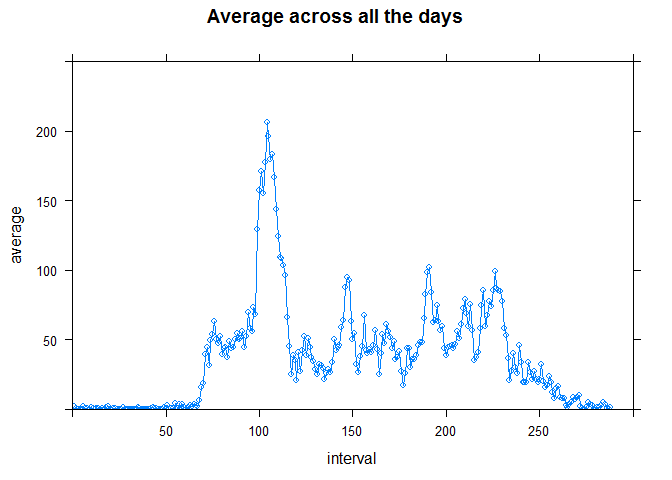
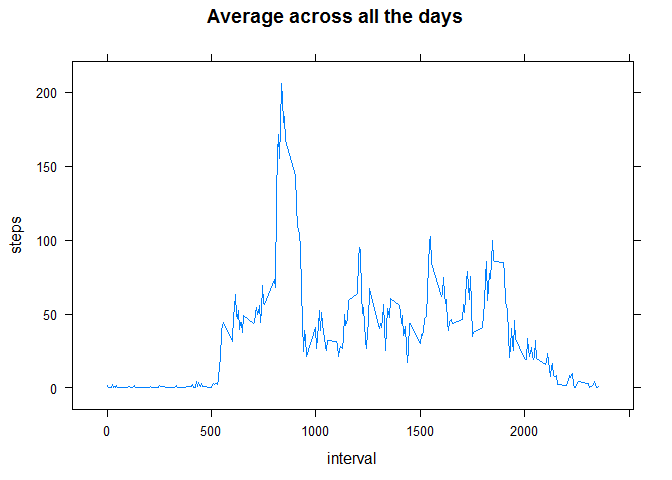
Completed Peer Assessment 1

diff --git a/PA1.html b/PA1.html
@@ -60,6 +60,7 @@ if (window.hljs && document.readyState && document.readyState === "complete") {
 <p>This is the first peer assessment of Reproducible Research of JH on coursera. This assignment makes use of data from a personal activity monitoring device. This device collects data at 5 minute intervals through out the day. The data consists of two months of data from an anonymous individual collected during the months of October and November, 2012 and include the number of steps taken in 5 minute intervals each day.</p>
 <div id="loading-and-preprocessing-the-data" class="section level3">
 <h3>Loading and preprocessing the data</h3>
+<p>Please unzip the zip file and make sure that the “activity.csv” is in your working directory.</p>
 <ol style="list-style-type: decimal">
 <li>Load the data.</li>
 </ol>
@@ -74,16 +75,16 @@ if (window.hljs && document.readyState && document.readyState === "complete") {
 <ol style="list-style-type: decimal">
 <li>Make a histogram of the total number of steps taken each day.</li>
 </ol>
-<pre class="r"><code>dailysteps &lt;- data.frame(date = format(as.Date(names(tapply(no.na$steps, no.na$date, sum))), &quot;%m%d&quot;), steps = tapply(no.na$steps, no.na$date, sum))
+<pre class="r"><code>dailysteps &lt;- aggregate(steps ~ date, no.na, sum)
 library(lattice)
-barchart(steps ~ date, data = dailysteps, xlab = &quot;day&quot;, main = &quot;Daily Steps from October 1 to November 30, 2012&quot;, horizontal = FALSE, scales = list(x = list(cex = 0.7)), xlim = c(0, 62), ylim = c(0, 25000))</code></pre>
[1 lines of base64/hex data omitted]
+barchart(steps ~ date, data = dailysteps, xlab = &quot;day&quot;, main = &quot;Daily Steps from October 1 to November 30, 2012&quot;, xlim = c(0, 54), ylim = c(0, 25000))</code></pre>
[1 lines of base64/hex data omitted]
 <ol start="2" style="list-style-type: decimal">
 <li>Calculate and report the mean and median total number of steps taken per day</li>
 </ol>
 <p>Here is the code to calculate the mean and median:</p>
-<pre class="r"><code>meansteps &lt;- mean(dailysteps$steps, na.rm = TRUE)
-mediansteps &lt;- median(dailysteps$steps, na.rm = TRUE)</code></pre>
+<pre class="r"><code>meansteps &lt;- mean(dailysteps$steps)
+mediansteps &lt;- median(dailysteps$steps)</code></pre>
 <p>The result is: 1.0766 × 10<sup>4</sup> and 10765</p>
 </div>
 <div id="what-is-the-average-daily-activity-pattern" class="section level3">
@@ -91,16 +92,15 @@ mediansteps &lt;- median(dailysteps$steps, na.rm = TRUE)</code></pre>
 <ol style="list-style-type: decimal">
 <li>Make a time series plot (i.e. type = “l”) of the 5-minute interval (x-axis) and the average number of steps taken, averaged across all days (y-axis)</li>
 </ol>
-<pre class="r"><code>averagesteps &lt;- data.frame(interval = names(tapply(no.na$steps, no.na$interval, mean)), average = tapply(no.na$steps, no.na$interval, mean))
-levels(averagesteps$interval) &lt;- order(unique(no.na$interval))
-averagesteps$interval &lt;- sort(averagesteps$interval)
-xyplot(average ~ interval, data = averagesteps, type = &quot;b&quot;, xlim = c(0, 300), ylim = c(0, 250), main = &quot;Average across all the days&quot;)</code></pre>
[1 lines of base64/hex data omitted]
+<pre class="r"><code>averagesteps &lt;- aggregate(steps ~ interval, no.na, mean)
+xyplot(steps ~ interval, data = averagesteps, type = &quot;l&quot;, main = &quot;Average across all the days&quot;)</code></pre>
[1 lines of base64/hex data omitted]
 <ol start="2" style="list-style-type: decimal">
 <li>Which 5-minute interval, on average across all the days in the dataset, contains the maximum number of steps?</li>
 </ol>
-<pre class="r"><code>maxaverage &lt;- which.max(averagesteps$average)</code></pre>
-<p>The maximum number of steps occur at 104e 5-minute interval.</p>
+<pre class="r"><code>maxaverage &lt;- which.max(averagesteps$steps)
+max &lt;- averagesteps[maxaverage, 1]</code></pre>
+<p>The maximum number of steps occur at 104e 5-minute interval, at 835.</p>
 </div>
 <div id="imputing-missing-values" class="section level3">
 <h3>Imputing missing values</h3>
@@ -111,7 +111,7 @@ xyplot(average ~ interval, data = averagesteps, type = &quot;b&quot;, xlim = c(0
 <pre class="r"><code>narows &lt;- nrow(data) - nrow(no.na)</code></pre>
 <p>The total number of missing values in the dataset: 2304 rows.</p>
 <ol start="2" style="list-style-type: decimal">
-<li>Fill the means of 5-minute interval accordingly in all of the missing values in the dataset.</li>
+<li>Fill the means of 5-minute interval accordingly in all of the missing values in the dataset and create a new one.</li>
 </ol>
 <pre class="r"><code>a &lt;- aggregate(steps ~ interval, data, mean, na.action = na.omit)
 m &lt;- merge(data, a, by.x = &quot;interval&quot;, by.y = &quot;interval&quot;)
@@ -131,16 +131,18 @@ barchart(steps ~ date, data = newsteps, xlab = &quot;day&quot;, main = &quot;Dai
 <pre class="r"><code>newmean &lt;- mean(newsteps$steps)
 newmedian &lt;- median(newsteps$steps)</code></pre>
 <p>The result is: 1.0766 × 10<sup>4</sup> and 1.0766 × 10<sup>4</sup></p>
-<p>The mean values are same, but the median values have 1 step diffrence between the new and old dataset. After imputing missing data, it is easier to judge everyday steps by the plot.</p>
+<p>The mean values are same, but the median values have 1 step difference between the new and old dataset. After imputing missing data, it is easier to estimate everyday steps pattern by the plot. We can see that it’s around 10,000 steps per day.</p>
 </div>
 <div id="are-there-differences-in-activity-patterns-between-weekdays-and-weekends" class="section level3">
 <h3>Are there differences in activity patterns between weekdays and weekends?</h3>
 <ol style="list-style-type: decimal">
 <li>With the new dataset, create a new factor variable with two levels indicating whether a given date is a weekday or weekend day.</li>
 </ol>
-<pre class="r"><code>Sys.setlocale(&quot;LC_TIME&quot;, &quot;English&quot;)</code></pre>
+<pre class="r"><code>### Set time language as English in case that someone uses other version computer system than English.
+Sys.setlocale(&quot;LC_TIME&quot;, &quot;English&quot;)</code></pre>
 <pre><code>## [1] &quot;English_United States.1252&quot;</code></pre>
-<pre class="r"><code>newdata$weekdays &lt;- weekdays(as.Date(newdata$date))
+<pre class="r"><code>### Add a new column with two factors - weekday and weekend.
+newdata$weekdays &lt;- weekdays(as.Date(newdata$date))
 weekday &lt;- c(&quot;Monday&quot;, &quot;Tuesday&quot;, &quot;Wednesday&quot;, &quot;Thursday&quot;, &quot;Friday&quot;)
 weekend &lt;- c(&quot;Saturday&quot;, &quot;Sunday&quot;)
 newdata[which(newdata$weekdays %in% weekday), 4] &lt;- &quot;weekday&quot;
@@ -148,13 +150,16 @@ newdata[which(newdata$weekdays %in% weekend), 4] &lt;- &quot;weekend&quot;</code
 <ol start="2" style="list-style-type: decimal">
 <li>Make a panel plot containing a time series plot (i.e. type = “l”) of the 5-minute interval (x-axis) and the average number of steps taken, averaged across all weekday days or weekend days (y-axis).</li>
 </ol>
-<pre class="r"><code>weekdayaverage &lt;- aggregate(steps ~ interval, newdata[which(newdata$weekdays == &quot;weekday&quot;), ], mean)
+<pre class="r"><code>### Calculate seperately average number of steps taken across all weekday days or weekend days.
+weekdayaverage &lt;- aggregate(steps ~ interval, newdata[which(newdata$weekdays == &quot;weekday&quot;), ], mean)
 weekendaverage &lt;- aggregate(steps ~ interval, newdata[which(newdata$weekdays == &quot;weekend&quot;), ], mean)
 wda &lt;- cbind(weekdayaverage, weekdays = rep(&quot;weekday&quot;, length(weekdayaverage$steps)))
 wea &lt;- cbind(weekendaverage, weekdays = rep(&quot;weekend&quot;, length(weekendaverage$steps)))
+### Combine the two average datasets
 weekaverage &lt;- rbind(wda,wea)
 xyplot(steps ~ interval | weekdays, data = weekaverage, type = &quot;l&quot;, ylab = &quot;Number of steps&quot;, main = &quot;Activity patterns of weekdays and weekends&quot;, layout = c(1, 2))</code></pre>
[1 lines of base64/hex data omitted]
+<p>From the plot, we can oberve that the number of steps is distributed more regularly on weekends than on weekdays.</p>
 </div>
 </div>
 </div>

diff --git a/PA1.md b/PA1.md
@@ -7,6 +7,7 @@ This is the first peer assessment of Reproducible Research of JH on coursera. Th
 
 
 ### Loading and preprocessing the data
+Please unzip the zip file and make sure that the "activity.csv" is in your working directory.
 
 1. Load the data.
 
@@ -26,9 +27,9 @@ no.na <- na.omit(data)
 1. Make a histogram of the total number of steps taken each day.
 
 ```r
-dailysteps <- data.frame(date = format(as.Date(names(tapply(no.na$steps, no.na$date, sum))), "%m%d"), steps = tapply(no.na$steps, no.na$date, sum))
+dailysteps <- aggregate(steps ~ date, no.na, sum)
 library(lattice)
-barchart(steps ~ date, data = dailysteps, xlab = "day", main = "Daily Steps from October 1 to November 30, 2012", horizontal = FALSE, scales = list(x = list(cex = 0.7)), xlim = c(0, 62), ylim = c(0, 25000))
+barchart(steps ~ date, data = dailysteps, xlab = "day", main = "Daily Steps from October 1 to November 30, 2012", xlim = c(0, 54), ylim = c(0, 25000))
 ```
 
 ![plot of chunk hist](./PA1_files/figure-html/hist.png) 
@@ -38,8 +39,8 @@ barchart(steps ~ date, data = dailysteps, xlab = "day", main = "Daily Steps from
 Here is the code to calculate the mean and median:
 
 ```r
-meansteps <- mean(dailysteps$steps, na.rm = TRUE)
-mediansteps <- median(dailysteps$steps, na.rm = TRUE)
+meansteps <- mean(dailysteps$steps)
+mediansteps <- median(dailysteps$steps)
 ```
 The result is: 1.0766 &times; 10<sup>4</sup> and 10765
 
@@ -49,10 +50,8 @@ The result is: 1.0766 &times; 10<sup>4</sup> and 10765
 1. Make a time series plot (i.e. type = "l") of the 5-minute interval (x-axis) and the average number of steps taken, averaged across all days (y-axis)
 
 ```r
-averagesteps <- data.frame(interval = names(tapply(no.na$steps, no.na$interval, mean)), average = tapply(no.na$steps, no.na$interval, mean))
-levels(averagesteps$interval) <- order(unique(no.na$interval))
-averagesteps$interval <- sort(averagesteps$interval)
-xyplot(average ~ interval, data = averagesteps, type = "b", xlim = c(0, 300), ylim = c(0, 250), main = "Average across all the days")
+averagesteps <- aggregate(steps ~ interval, no.na, mean)
+xyplot(steps ~ interval, data = averagesteps, type = "l", main = "Average across all the days")
 ```
 
 ![plot of chunk average](./PA1_files/figure-html/average.png) 
@@ -60,10 +59,11 @@ xyplot(average ~ interval, data = averagesteps, type = "b", xlim = c(0, 300), yl
 2. Which 5-minute interval, on average across all the days in the dataset, contains the maximum number of steps?
 
 ```r
-maxaverage <- which.max(averagesteps$average)
+maxaverage <- which.max(averagesteps$steps)
+max <- averagesteps[maxaverage, 1]
 ```
 
-The maximum number of steps occur at 104e 5-minute interval.
+The maximum number of steps occur at 104e 5-minute interval, at 835.
 
 
 ### Imputing missing values
@@ -78,7 +78,7 @@ narows <- nrow(data) - nrow(no.na)
 The total number of missing values in the dataset: 2304 rows.
 
 
-2. Fill the means of 5-minute interval accordingly in all of the missing values in the dataset.
+2. Fill the means of 5-minute interval accordingly in all of the missing values in the dataset and create a new one.
 
 ```r
 a <- aggregate(steps ~ interval, data, mean, na.action = na.omit)
@@ -105,7 +105,7 @@ newmedian <- median(newsteps$steps)
 ```
 The result is: 1.0766 &times; 10<sup>4</sup> and 1.0766 &times; 10<sup>4</sup>
 
-The mean values are same, but the median values have 1 step diffrence between the new and old dataset. After imputing missing data, it is easier to judge everyday steps by the plot.
+The mean values are same, but the median values have 1 step difference between the new and old dataset. After imputing missing data, it is easier to estimate everyday steps pattern by the plot. We can see that it's around 10,000 steps per day.
 
 
 ### Are there differences in activity patterns between weekdays and weekends?
@@ -113,6 +113,7 @@ The mean values are same, but the median values have 1 step diffrence between th
 1. With the new dataset, create a new factor variable with two levels  indicating whether a given date is a weekday or weekend day.
 
 ```r
+### Set time language as English in case that someone uses other version computer system than English.
 Sys.setlocale("LC_TIME", "English")
 ```
 
@@ -121,6 +122,7 @@ Sys.setlocale("LC_TIME", "English")
 ```
 
 ```r
+### Add a new column with two factors - weekday and weekend.
 newdata$weekdays <- weekdays(as.Date(newdata$date))
 weekday <- c("Monday", "Tuesday", "Wednesday", "Thursday", "Friday")
 weekend <- c("Saturday", "Sunday")
@@ -131,13 +133,16 @@ newdata[which(newdata$weekdays %in% weekend), 4] <- "weekend"
 2. Make a panel plot containing a time series plot (i.e. type = "l") of the 5-minute interval (x-axis) and the average number of steps taken, averaged across all weekday days or weekend days (y-axis).
 
 ```r
+### Calculate seperately average number of steps taken across all weekday days or weekend days.
 weekdayaverage <- aggregate(steps ~ interval, newdata[which(newdata$weekdays == "weekday"), ], mean)
 weekendaverage <- aggregate(steps ~ interval, newdata[which(newdata$weekdays == "weekend"), ], mean)
 wda <- cbind(weekdayaverage, weekdays = rep("weekday", length(weekdayaverage$steps)))
 wea <- cbind(weekendaverage, weekdays = rep("weekend", length(weekendaverage$steps)))
+### Combine the two average datasets
 weekaverage <- rbind(wda,wea)
 xyplot(steps ~ interval | weekdays, data = weekaverage, type = "l", ylab = "Number of steps", main = "Activity patterns of weekdays and weekends", layout = c(1, 2))
 ```
 
 ![plot of chunk weekpattern](./PA1_files/figure-html/weekpattern.png) 
 
+From the plot, we can oberve that the number of steps is distributed more regularly on weekends than on weekdays.
